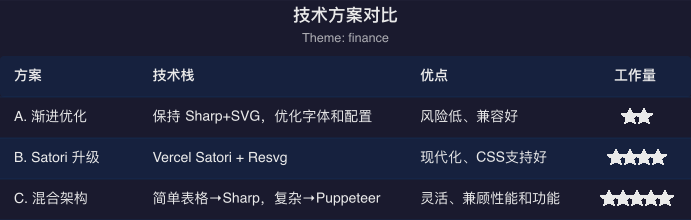
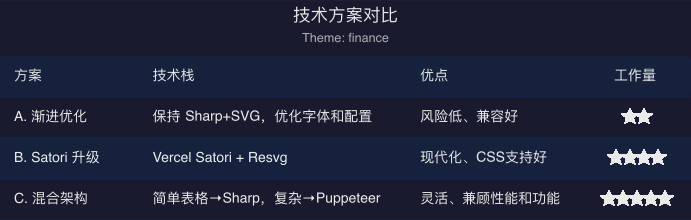
fix: add emoji font support in themes
- Add Apple Color Emoji, Segoe UI Emoji, Noto Color Emoji to all theme font families
- Regenerate theme preview images with emoji support

diff --git a/scripts/index.js b/scripts/index.js
@@ -38,7 +38,7 @@ const THEMES = {
     rowAltBg: '#f2f3f5',
     text: '#2e3338',
     border: '#e3e5e8',
-    fontFamily: '-apple-system, BlinkMacSystemFont, "Segoe UI", Roboto, "Noto Sans CJK SC", sans-serif'
+    fontFamily: '-apple-system, BlinkMacSystemFont, "Segoe UI", Roboto, "Noto Sans CJK SC", "Apple Color Emoji", "Segoe UI Emoji", "Noto Color Emoji", sans-serif'
   },
   'discord-dark': {
     background: '#2f3136',
@@ -48,7 +48,7 @@ const THEMES = {
     rowAltBg: '#2f3136',
     text: '#dcddde',
     border: '#40444b',
-    fontFamily: '-apple-system, BlinkMacSystemFont, "Segoe UI", Roboto, "Noto Sans CJK SC", sans-serif'
+    fontFamily: '-apple-system, BlinkMacSystemFont, "Segoe UI", Roboto, "Noto Sans CJK SC", "Apple Color Emoji", "Segoe UI Emoji", "Noto Color Emoji", sans-serif'
   },
   'finance': {
     background: '#1a1a2e',
@@ -58,7 +58,7 @@ const THEMES = {
     rowAltBg: '#16213e',
     text: '#eaeaea',
     border: '#0f3460',
-    fontFamily: '-apple-system, BlinkMacSystemFont, "Segoe UI", Roboto, "Noto Sans CJK SC", sans-serif'
+    fontFamily: '-apple-system, BlinkMacSystemFont, "Segoe UI", Roboto, "Noto Sans CJK SC", "Apple Color Emoji", "Segoe UI Emoji", "Noto Color Emoji", sans-serif'
   },
   'minimal': {
     background: '#ffffff',
@@ -68,7 +68,7 @@ const THEMES = {
     rowAltBg: '#f8f9fa',
     text: '#333333',
     border: '#eeeeee',
-    fontFamily: '-apple-system, BlinkMacSystemFont, "Segoe UI", Roboto, sans-serif'
+    fontFamily: '-apple-system, BlinkMacSystemFont, "Segoe UI", Roboto, "Apple Color Emoji", "Segoe UI Emoji", "Noto Color Emoji", sans-serif'
   }
 };
 
